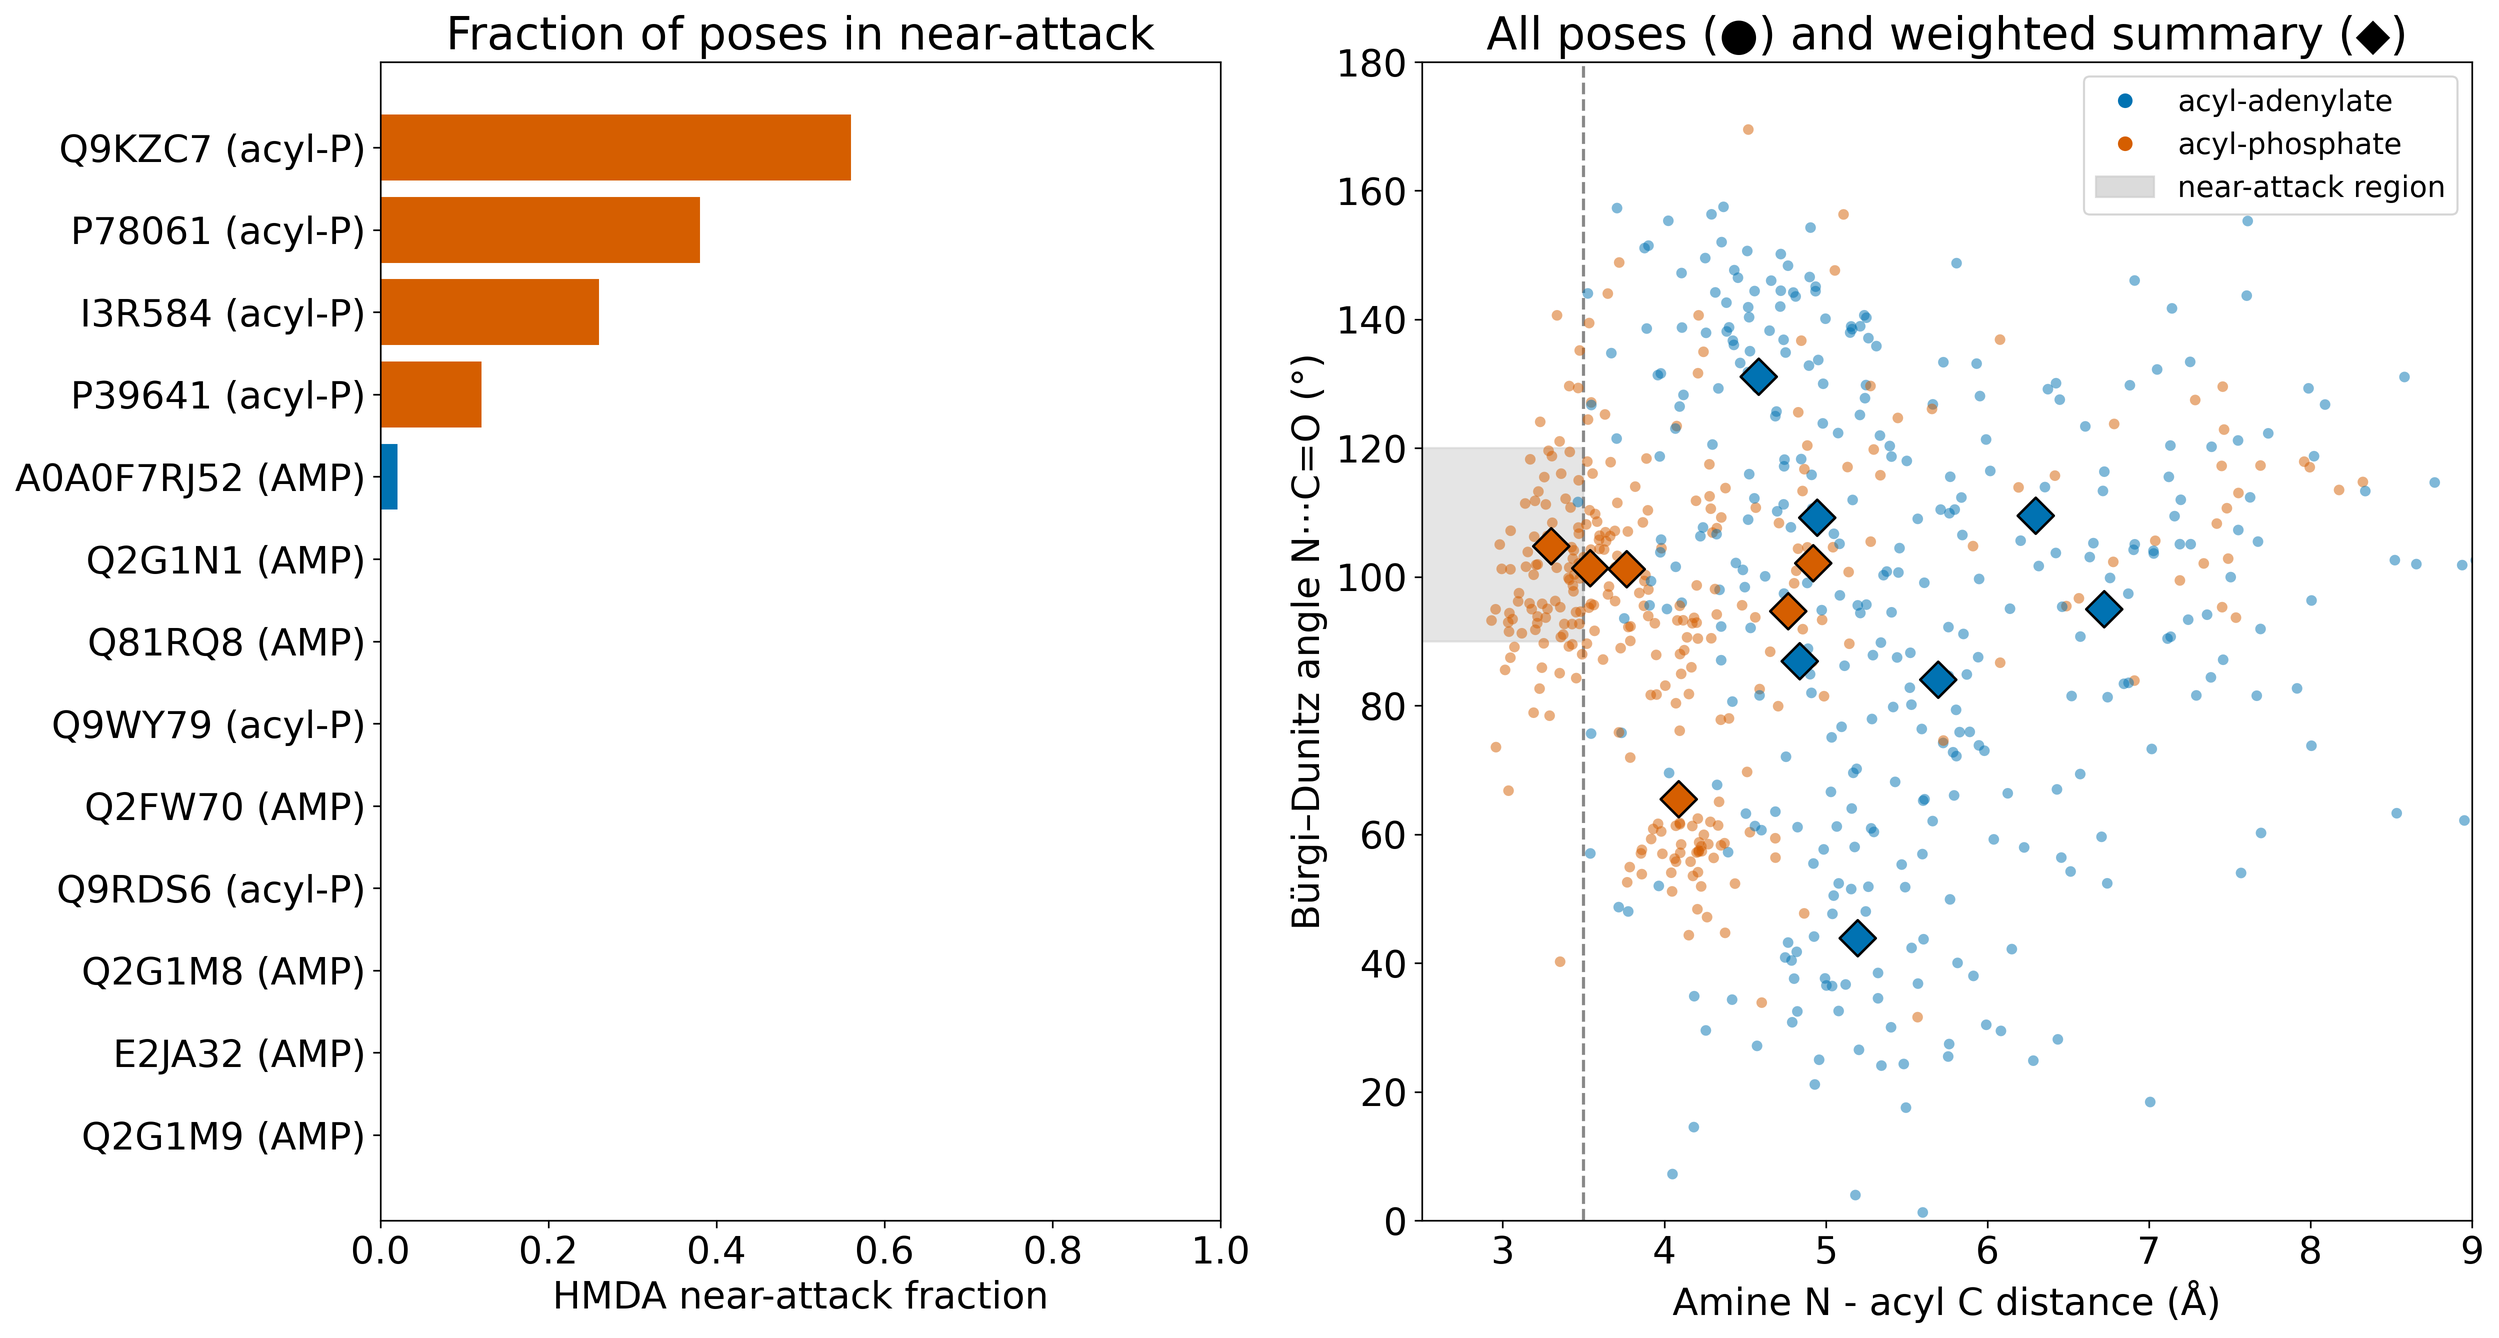
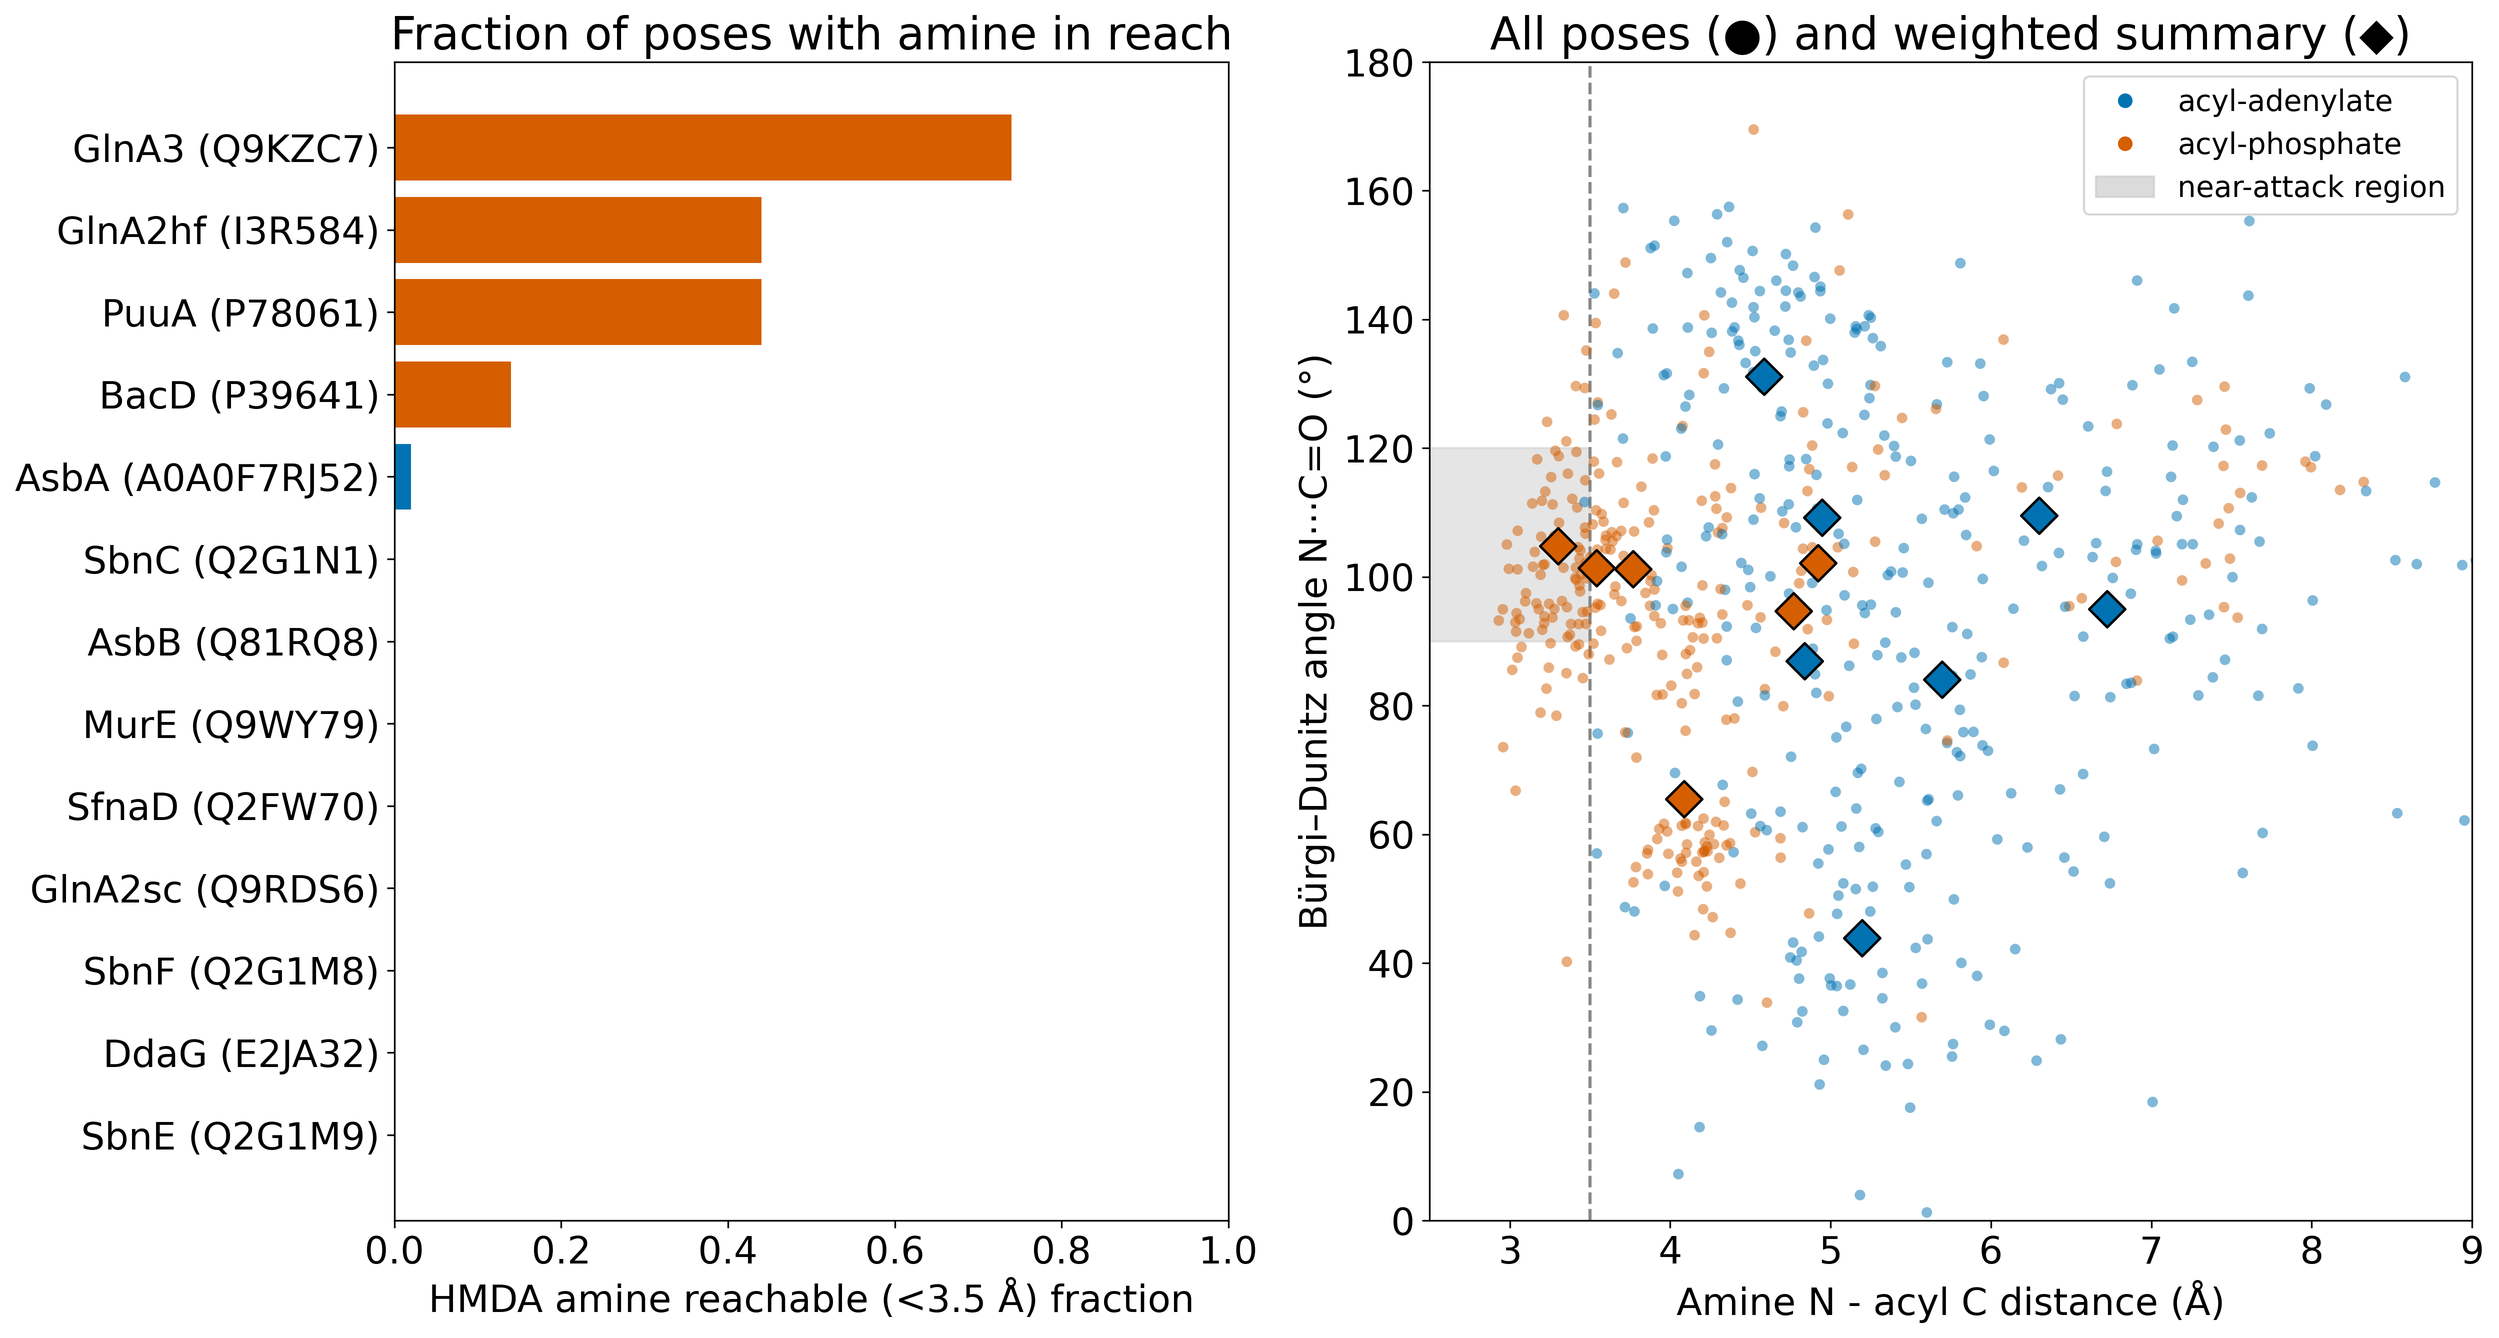
Combine step-1 + step-2 per enzyme; reachability-first step-2 metric; names+UniProt
Combined view (step1_step2_combined.png/tsv): paired bars of step-1 in-line
activation vs step-2 amine reachability, and a joint-quality scatter
(step-1 weighted attack angle vs step-2 weighted amine-carbonyl distance).
GlnA3 (Q9KZC7) is the only enzyme strong on both half-reactions.

Step-2 metric reframed after review: reachability (amine within 3.5A of the
acyl carbon, angle-free) is now the primary accommodation signal; the
Burgi-Dunitz angle gate is kept as a stricter, fragile secondary metric.

All figures/tables now label enzymes as "Gene (UniProt)", not the bare accession.

README: document both near-attack definitions and three step-2 caveats --
the forced pocket restraint (amine within 10A of ~20 step-1-derived residues),
no hydrogens so closest-amine is used, and step-2 geometry's non-predictiveness.

diff --git a/rxnfp_clustering/query_amide_synthesis_reaction/amide_synthesis/evaluation/step2_geometry.py b/rxnfp_clustering/query_amide_synthesis_reaction/amide_synthesis/evaluation/step2_geometry.py
@@ -30,6 +30,16 @@ from amide_synthesis.infrastructure.paths import RES
 RUN = RES / 'top10_cofold_step2'
 BD_LOW, BD_HIGH, NEAR_A = 90.0, 120.0, 3.5
 
+# Enzyme/gene name per UniProt accession; always label as "Gene (Accession)".
+GENE = {'P78061': 'PuuA', 'P39641': 'BacD', 'Q9KZC7': 'GlnA3', 'Q9RDS6': 'GlnA2sc',
+        'I3R584': 'GlnA2hf', 'Q9WY79': 'MurE', 'E2JA32': 'DdaG', 'Q2FW70': 'SfnaD',
+        'Q2G1M9': 'SbnE', 'A0A0F7RJ52': 'AsbA', 'Q2G1N1': 'SbnC', 'Q2G1M8': 'SbnF',
+        'Q81RQ8': 'AsbB'}
+
+
+def label(accession):
+    return f'{GENE.get(accession, accession)} ({accession})'
+
 
 def bonded(a, b, cutoff):
     return a.pos.dist(b.pos) <= cutoff
@@ -95,11 +105,16 @@ def summarise(item):
     inv = 1 / d
     near = (d < NEAR_A) & (a >= BD_LOW) & (a <= BD_HIGH)
     row = {
-        'name': name, 'accession': item['accession'], 'route': item['route'],
+        'name': name, 'accession': item['accession'],
+        'enzyme': label(item['accession']), 'route': item['route'],
         'weighted_distance_A': float((d * inv).sum() / inv.sum()),
         'harmonic_distance_A': float(50 / inv.sum()),
         'min_distance_A': float(d.min()), 'median_distance_A': float(np.median(d)),
         'mean_BurgiDunitz_deg': float(a.mean()),
+        # Reachability: an HMDA amine within 3.5 A of the acyl carbon, angle-free.
+        # This is the robust accommodation signal; the Burgi-Dunitz gate below is stricter
+        # and fragile on static cofold poses, so it is reported as secondary.
+        'reachable_fraction_3p5A': float((d < NEAR_A).mean()),
         'near_attack_fraction': float(near.mean()),
         'n_models': 50,
     }
@@ -112,19 +127,24 @@ def main():
     for item in manifest['inputs']:
         row, d, a = summarise(item)
         rows.append(row); poses[row['name']] = (d, a)
-    rows.sort(key=lambda r: (-r['near_attack_fraction'], r['min_distance_A']))
+    rows.sort(key=lambda r: (-r['reachable_fraction_3p5A'], -r['near_attack_fraction'],
+                             r['min_distance_A']))
     with (RUN / 'step2_near_attack.tsv').open('w', newline='') as handle:
         writer = csv.DictWriter(handle, fieldnames=list(rows[0]), delimiter='\t')
         writer.writeheader(); writer.writerows(rows)
     summary = {
         'n_enzymes': len(rows),
+        'enzymes_amine_reachable': sum(r['reachable_fraction_3p5A'] > 0 for r in rows),
         'enzymes_with_any_near_attack': sum(r['near_attack_fraction'] > 0 for r in rows),
         'median_min_distance_A': float(np.median([r['min_distance_A'] for r in rows])),
         'interpretation': (
-            'Near-attack fraction = poses with amine-N to carbonyl-C < 3.5 A and '
-            'Burgi-Dunitz angle in [90,120] deg. Measures whether HMDA is sterically '
-            'accommodated for attack, not catalytic rate; step-2 geometry did not rank '
-            'activity on the experimental panel (step-1 adenylation did).'),
+            'Primary accommodation signal = reachable_fraction_3p5A: poses with an HMDA '
+            'amine-N within 3.5 A of the acyl carbonyl-C (distance only). near_attack_fraction '
+            'adds a Burgi-Dunitz angle gate [90,120] deg, which is stricter and fragile on '
+            'static cofold poses. Both are steric feasibility for the C6 diamine, not catalytic '
+            'rate; step-2 geometry did not rank activity on the experimental panel (step-1 did). '
+            'Output lacks hydrogens, so the closest amine-N is used (neutral vs protonated amine '
+            'not distinguishable geometrically).'),
         'enzymes': rows,
     }
     (RUN / 'step2_near_attack.json').write_text(json.dumps(summary, indent=2))
@@ -149,14 +169,13 @@ def figure(rows, poses, path):
     fig, (bar, scat) = plt.subplots(1, 2, figsize=(17, 0.52 * len(rows) + 2.5),
                                     gridspec_kw={'width_ratios': [1, 1.25]})
 
-    order = sorted(rows, key=lambda r: r['near_attack_fraction'])
-    labels = [f"{r['accession']} ({'AMP' if r['route'] == 'acyl_adenylate' else 'acyl-P'})"
-              for r in order]
-    bar.barh(range(len(order)), [r['near_attack_fraction'] for r in order],
+    order = sorted(rows, key=lambda r: r['reachable_fraction_3p5A'])
+    labels = [r['enzyme'] for r in order]
+    bar.barh(range(len(order)), [r['reachable_fraction_3p5A'] for r in order],
              color=[_route_colour(r['route']) for r in order])
     bar.set_yticks(range(len(order))); bar.set_yticklabels(labels)
-    bar.set_xlabel('HMDA near-attack fraction'); bar.set_xlim(0, 1)
-    bar.set_title('Fraction of poses in near-attack')
+    bar.set_xlabel('HMDA amine reachable (<3.5 Å) fraction'); bar.set_xlim(0, 1)
+    bar.set_title('Fraction of poses with amine in reach')
 
     # Near-attack region: d < 3.5 A and Burgi-Dunitz angle in [90, 120] deg.
     scat.axhspan(BD_LOW, BD_HIGH, xmax=(NEAR_A - 2.5) / (9 - 2.5), color='#CCCCCC', alpha=0.5,
@@ -197,7 +216,8 @@ def facet_figure(rows, poses, path):
         ax.axhspan(BD_LOW, BD_HIGH, xmax=(NEAR_A - 2.5) / (9 - 2.5), color='#CCCCCC', alpha=0.5)
         ax.axvline(NEAR_A, color='#888888', ls='--', lw=1.2)
         ax.scatter(d, a, s=30, alpha=0.6, color=_route_colour(r['route']), edgecolor='none')
-        ax.set_title(f"{r['accession']}  ({r['near_attack_fraction']*100:.0f}%)", fontsize=18)
+        ax.set_title(f"{r['enzyme']}  reach {r['reachable_fraction_3p5A']*100:.0f}%",
+                     fontsize=16)
         ax.set_xlim(2.5, 9); ax.set_ylim(0, 180)
     for ax in axes[len(rows):]:
         ax.axis('off')

diff --git a/rxnfp_clustering/query_amide_synthesis_reaction/amide_synthesis/evaluation/combined_geometry.py b/rxnfp_clustering/query_amide_synthesis_reaction/amide_synthesis/evaluation/combined_geometry.py
@@ -1,0 +1,104 @@
+"""Combine step-1 (acid activation) and step-2 (amine accommodation) per enzyme.
+
+An enzyme is only a plausible adipate+HMDA catalyst if both half-reactions look
+feasible: adipate positioned to be activated (step 1) AND HMDA able to reach the
+activated carbonyl (step 2). This joins the two geometry runs on accession and
+renders them together -- paired near-attack fractions, and a continuous
+quality scatter (step-1 weighted attack angle vs step-2 weighted amine distance).
+
+Both readouts are structural feasibility, not activity: step-2 geometry did not rank
+activity on the experimental panel, so the joint view flags candidates worth testing,
+not a predicted ranking.
+"""
+import csv
+import json
+from pathlib import Path
+
+from amide_synthesis.infrastructure.paths import RES
+from amide_synthesis.evaluation.step2_geometry import GENE, label
+
+STEP1 = RES / 'top10_cofold/campaign/geometry_ranking.tsv'
+STEP2 = RES / 'top10_cofold_step2/step2_near_attack.json'
+OUT = RES / 'top10_cofold_step2'
+
+
+def load():
+    step1 = {r['accession']: r for r in csv.DictReader(STEP1.open(), delimiter='\t')}
+    step2 = {r['accession']: r for r in json.loads(STEP2.read_text())['enzymes']}
+    rows = []
+    for acc, s2 in step2.items():
+        s1 = step1[acc]
+        rows.append({
+            'accession': acc, 'gene': GENE.get(acc, acc), 'enzyme': label(acc),
+            'route': s2['route'],
+            'step1_near_attack': float(s1['near_attack_fraction']),
+            'step1_weighted_angle_deg': float(s1['A_deg']),
+            'step1_harmonic_distance_A': float(s1['Dh_A']),
+            'step2_amine_reachable': s2['reachable_fraction_3p5A'],
+            'step2_near_attack': s2['near_attack_fraction'],
+            'step2_weighted_distance_A': s2['weighted_distance_A'],
+        })
+    rows.sort(key=lambda r: (-(r['step1_near_attack'] + r['step2_amine_reachable']),
+                             -r['step1_weighted_angle_deg']))
+    return rows
+
+
+def _colour(route):
+    return '#0072B2' if route == 'acyl_adenylate' else '#D55E00'
+
+
+def figure(rows, path):
+    import matplotlib
+    matplotlib.use('Agg')
+    import matplotlib.pyplot as plt
+    import numpy as np
+    plt.rcParams.update({'font.size': 18, 'savefig.dpi': 300, 'figure.dpi': 300})
+
+    fig, (bars, scat) = plt.subplots(1, 2, figsize=(18, 0.62 * len(rows) + 3),
+                                     gridspec_kw={'width_ratios': [1, 1.15]})
+
+    # Paired near-attack fractions per enzyme.
+    order = rows[::-1]
+    y = np.arange(len(order)); h = 0.4
+    bars.barh(y + h / 2, [r['step1_near_attack'] for r in order], height=h,
+              color='#56B4E9', label='step 1: adipate in-line activation (<4Å, >150°)')
+    bars.barh(y - h / 2, [r['step2_amine_reachable'] for r in order], height=h,
+              color='#E69F00', label='step 2: HMDA amine reachable (<3.5Å)')
+    bars.set_yticks(y); bars.set_yticklabels([r['enzyme'] for r in order])
+    bars.set_xlabel('Fraction of poses'); bars.set_xlim(0, 1)
+    bars.set_title('Both half-reactions per enzyme')
+    bars.legend(loc='lower right', fontsize=13)
+
+    # Continuous joint quality: step-1 angle (ideal -> 180) vs step-2 amine distance (ideal -> small).
+    for r in rows:
+        scat.scatter(r['step1_weighted_angle_deg'], r['step2_weighted_distance_A'],
+                     s=170, color=_colour(r['route']), edgecolor='black', lw=1.2, zorder=3)
+        scat.annotate(r['gene'], (r['step1_weighted_angle_deg'], r['step2_weighted_distance_A']),
+                      xytext=(7, 4), textcoords='offset points', fontsize=15)
+    scat.axvline(150, color='#888888', ls='--', lw=1.3)
+    scat.axhline(3.5, color='#888888', ls='--', lw=1.3)
+    scat.set_xlabel('Step 1: weighted attack angle (°, ideal → 180)')
+    scat.set_ylabel('Step 2: weighted amine–carbonyl distance (Å, ideal → small)')
+    scat.set_title('Joint quality (best: upper-right)')
+    scat.invert_yaxis()  # small amine distance (better) at top
+    handles = [plt.Line2D([], [], marker='o', ls='', color='#0072B2', markersize=12),
+               plt.Line2D([], [], marker='o', ls='', color='#D55E00', markersize=12)]
+    scat.legend(handles, ['acyl-adenylate', 'acyl-phosphate'], loc='lower left', fontsize=15)
+    fig.tight_layout(); fig.savefig(path, bbox_inches='tight'); plt.close(fig)
+
+
+def main():
+    rows = load()
+    with (OUT / 'step1_step2_combined.tsv').open('w', newline='') as handle:
+        writer = csv.DictWriter(handle, fieldnames=list(rows[0]), delimiter='\t')
+        writer.writeheader(); writer.writerows(rows)
+    figure(rows, OUT / 'step1_step2_combined.png')
+    print(f"Wrote combined step-1/step-2 view for {len(rows)} enzymes to {OUT}")
+    for r in rows:
+        print(f"  {r['gene']:8s} {r['accession']:11s} step1_near={r['step1_near_attack']:.2f} "
+              f"step2_near={r['step2_near_attack']:.2f}")
+    return 0
+
+
+if __name__ == '__main__':
+    raise SystemExit(main())

diff --git a/rxnfp_clustering/query_amide_synthesis_reaction/README.md b/rxnfp_clustering/query_amide_synthesis_reaction/README.md
@@ -70,14 +70,24 @@ well adipate is positioned for adenylylation/phosphorylation, and is the geometr
 discriminated active amide synthetases on the experimental panel. It says nothing on
 its own about amide-bond formation.
 
-**Step 2 tests amine accommodation, not activity.** The step-2 cofolds place the
-activated acyl intermediate (acyl-adenylate + 1 Mg, or acyl-phosphate + ADP + 2 Mg,
+**Step 2 tests conditional amine accommodation, not activity.** The step-2 cofolds place
+the activated acyl intermediate (acyl-adenylate + 1 Mg, or acyl-phosphate + ADP + 2 Mg,
 per the enzyme's mechanism) with HMDA carrying one neutral nucleophilic amine, to ask
-whether the C6 diamine can reach a near-attack geometry — relevant because native
-amine-role substrates here span ammonia-sized to large polyamines. Five of thirteen
-enzymes present an amine for near-attack. This is a steric-accommodation readout, not
-an activity ranking: step-2 intermediate-state geometry was non-predictive of measured
-activity on the experimental panel.
+whether the C6 diamine can reach the activated carbonyl — relevant because native
+amine-role substrates here span ammonia-sized to large polyamines. The primary readout
+is reachability (fraction of poses with an HMDA amine within 3.5 Å of the acyl carbon);
+the Bürgi–Dunitz angle gate [90,120]° is reported as a stricter, more fragile secondary
+metric. GlnA3 (Q9KZC7) is the only enzyme strong on both half-reactions.
+
+Three caveats condition this readout. (i) The amine is held by a **forced pocket
+restraint** (`force: true`, the amine within 10 Å of ~20 residues derived from that
+enzyme's own step-1 adipate pose); without it a small flexible diamine strands on the
+surface, but it also means accommodation is measured *given* HMDA is localized to the
+acid pocket, and the per-enzyme restraint shells differ. (ii) The output has no
+hydrogens, so the closest amine nitrogen is used — the neutral vs protonated amine
+cannot be told apart geometrically. (iii) Step-2 intermediate-state geometry was
+non-predictive of measured activity on the experimental panel, so this is a feasibility
+screen, not a ranking; step-1 adenylation geometry carried the activity signal.
 
 **Boltz-2 gives geometry, not affinity, on a non-native substrate.** A favourable pose
 is not evidence that adipate/HMDA binds or turns over. Composition and geometric
